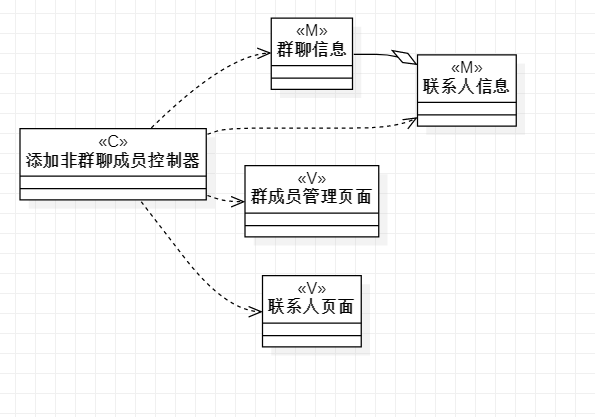
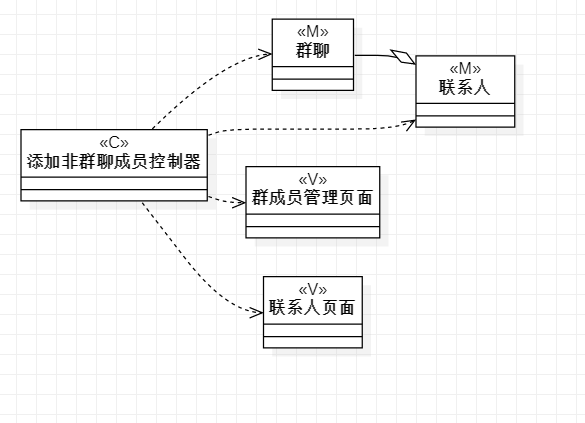
#6

diff --git a/students/1714080902340/实验06.md b/students/1714080902340/实验06.md
@@ -1,0 +1,28 @@
+# 实验六：交互建模  
+
+## 一、 实验目标  
+
+#### 1. 理解系统交互；  
+#### 2. 掌握UML顺序图的画法；  
+#### 2. 掌握对象交互的定义与建模方法。  
+
+## 二、 实验内容  
+
+#### 1. 根据用例模型和类模型，确定功能所涉及的系统对象；  
+#### 2. 在顺序图上画出参与者（对象）；  
+#### 3. 在顺序图上画出消息（交互）。  
+
+## 三、 实验步骤  
+
+#### 1. 通过视频学习了解交互建模的概念和顺序图的画法；  
+#### 2. 通过类图找出参与者；  
+#### 3. 通过用例规约画出消息；
+
+#### 4. 在画图过程中对类图进行改进
+
+## 四、 顺序图
+删除群成员图
+![删除群聊成员图](./Lab6_1.png)  
+
+添加非群聊成员图
+![添加非群聊成员图](./Lab6_2.png)  
